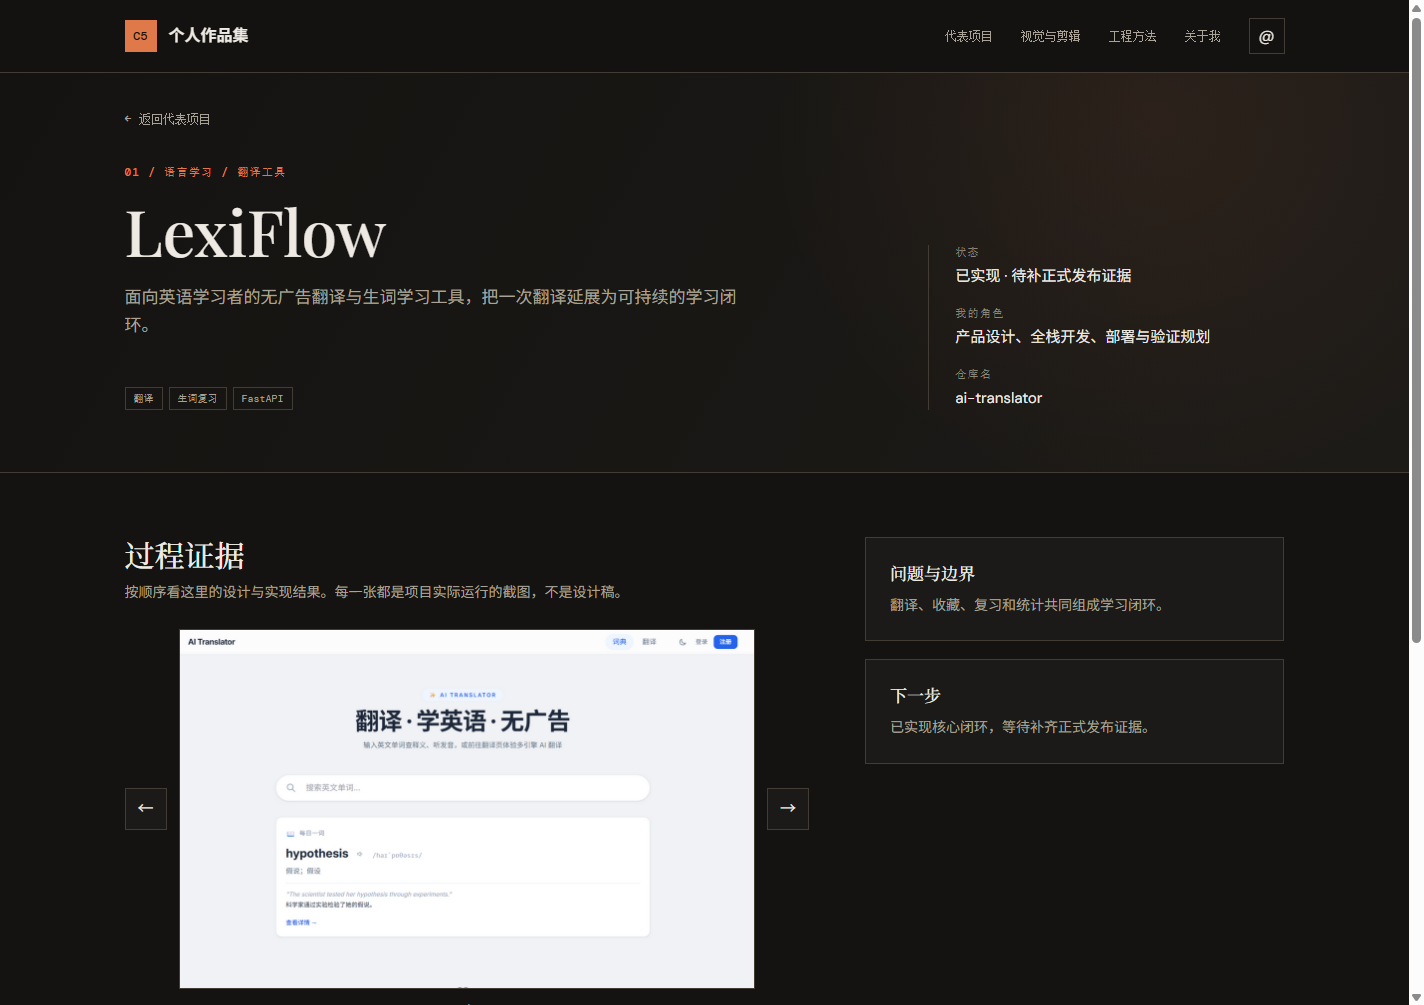
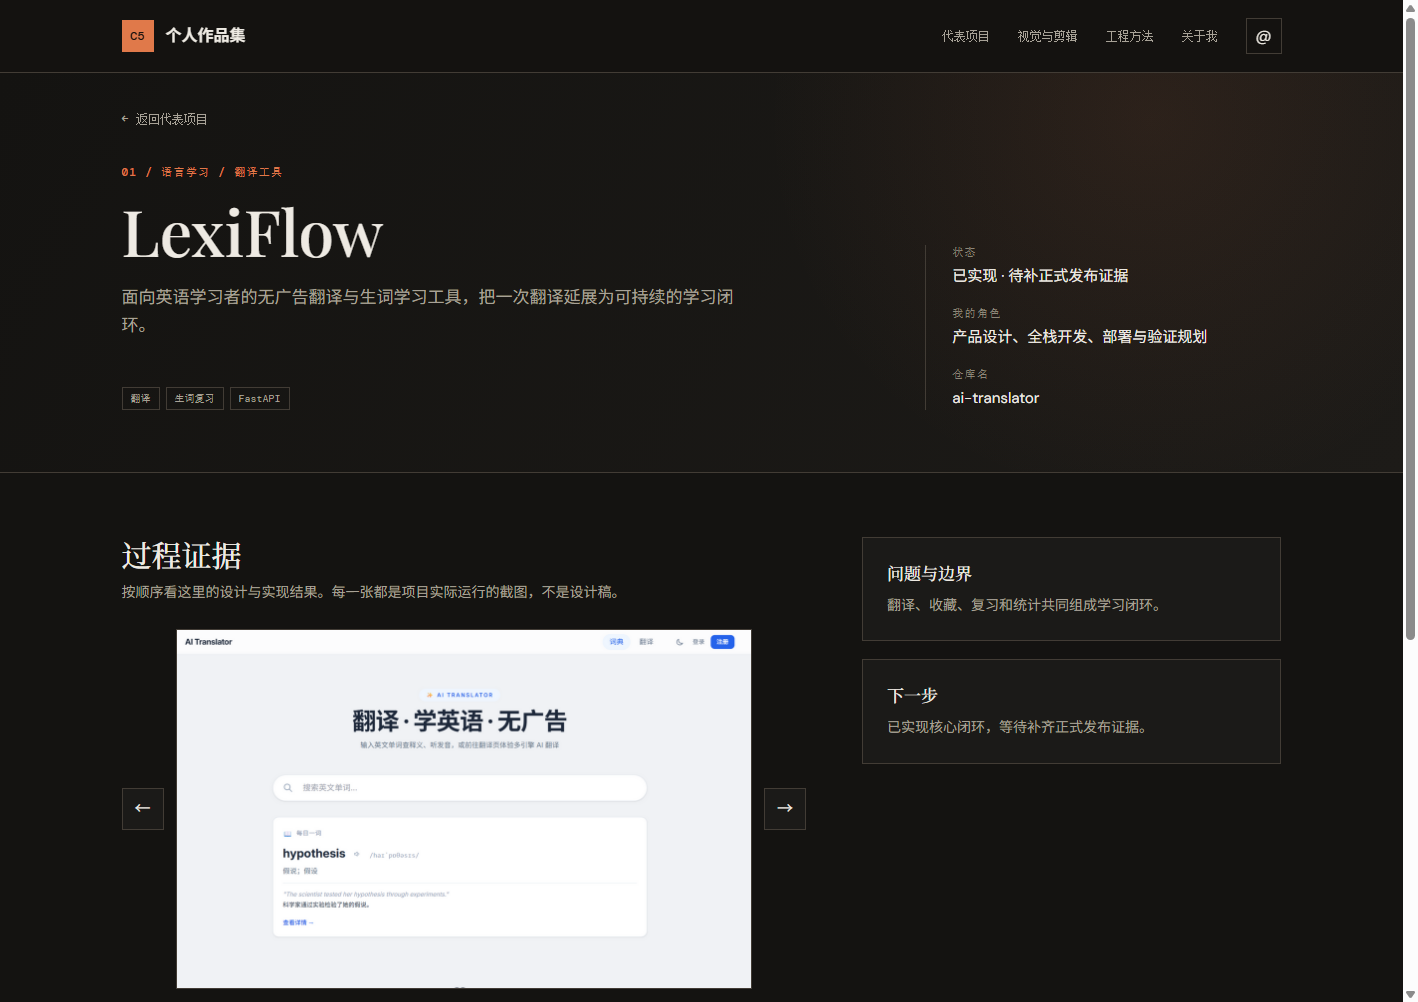
fix: Folio 封面改用裁剪后的登录页截图，并补记详情页重构诊断
- 原封面用对话页截图，观感杂乱；改登录页截图后发现问题：原图四周有约 14%/17% 近黑空白，且原图比例 1.573 与封面区域约 1.59 几乎一致，background-size:cover 等于不裁剪，黑边原样显示
- 新增 folio-cover-login.png：按程序测出的内容边界 x=200..1223、y=153..752 裁剪并留 20px 呼吸边（比例 1.662）；原截图保持未改，对话页截图仍留在画廊中
- STATUS 写入「截图只允许派生不允许修饰」原则，并把详情页结构性诊断（图组 9 个元素、卡片标题与内容不符、字段语义不一致、未用硬数字）记入待办

diff --git a/project/frontend/src/data/projects.js b/project/frontend/src/data/projects.js
@@ -4,7 +4,7 @@ import { ref } from 'vue'
 
 export const fallbackProjects = [
   { id: 1, slug: 'ai-translator', title: 'LexiFlow', repoName: 'ai-translator', summary: '面向英语学习者的无广告翻译与生词学习工具，把一次翻译延展为可持续的学习闭环。', background: '翻译、收藏、复习和统计共同组成学习闭环。', outcome: '已实现核心闭环，等待补齐正式发布证据。', role: '产品设计、全栈开发、部署与验证规划', projectType: '语言学习 / 翻译工具', project_type: 'INDEPENDENT', status: '已实现 · 待补正式发布证据', tags: ['翻译', '生词复习', 'FastAPI'], image: '/assets/v5/translator-home.png', visualKind: 'screenshot', evidence: '3 张已核验截图 · 引擎降级提示的证据待补', gallery: [{ src: '/assets/v5/translator-home.png', step: 'STEP 01 / 入口', caption: '首页「每日一词」。把工具的入口前置成每天可以回访的学习动作，而不是一次性的翻译框。' }, { src: '/assets/v5/lexiflow-translate-result.png', step: 'STEP 02 / 核心链路', caption: '真实翻译结果。输入一句英文，模型返回中文译文，下方列出可继续查词的高频词。截图取自本地实跑，不是设计稿。' }, { src: '/assets/v5/lexiflow-quota-limit.png', step: 'STEP 03 / 边界处理', caption: '匿名游客每日 3 次免费翻译，用完后不静默失败，而是引导登录。配额按匿名标识独立计数，登录用户不受限。' }] },
-  { id: 2, slug: 'ai-second-brain', title: 'Folio', repoName: 'ai-second-brain', summary: '把文档整理、切片检索与问答连成一条链路，回答只依据上传的资料，并标注来源。', background: '把文档上传、切片、检索和流式对话连接起来。', outcome: '已完成独立项目闭环，正在整理公开版本证据。', role: '产品建模、Java 全栈开发、测试与部署', projectType: '知识库 / 检索问答', project_type: 'SOLO', status: '已实现 · 发布前复核', tags: ['文档检索', '引用溯源', 'Spring Boot'], image: '/assets/v5/brain-chat-cited.png', visualKind: 'screenshot', evidence: '3 张已核验截图 · 均为独立演示账号采集，不含真实资料', gallery: [{ src: '/assets/v5/secondbrain-login.png', step: 'STEP 01 / 身份入口', caption: '登录页。左侧说明产品定位，右侧为登录表单。系统区分管理员与普通用户，文档、会话与模型配置按账号隔离。' }, { src: '/assets/v5/brain-documents.png', step: 'STEP 02 / 文档管理', caption: '文档上传与处理状态。上传后经过解析、递归切片和本地 BGE 向量化，页面上显示每个文档的切片数量。截图为演示账号，未包含真实资料。' }, { src: '/assets/v5/brain-chat-cited.png', step: 'STEP 03 / 核心链路', caption: '知识库对话。回答基于检索到的片段生成，并给出引用片段与相似度分数；这份材料只覆盖了问题的一部分，回答就明确说明缺失，而不是编造补全。' }] },
+  { id: 2, slug: 'ai-second-brain', title: 'Folio', repoName: 'ai-second-brain', summary: '把文档整理、切片检索与问答连成一条链路，回答只依据上传的资料，并标注来源。', background: '把文档上传、切片、检索和流式对话连接起来。', outcome: '已完成独立项目闭环，正在整理公开版本证据。', role: '产品建模、Java 全栈开发、测试与部署', projectType: '知识库 / 检索问答', project_type: 'SOLO', status: '已实现 · 发布前复核', tags: ['文档检索', '引用溯源', 'Spring Boot'], image: '/assets/v5/folio-cover-login.png', visualKind: 'screenshot', evidence: '3 张已核验截图 · 均为独立演示账号采集，不含真实资料', gallery: [{ src: '/assets/v5/secondbrain-login.png', step: 'STEP 01 / 身份入口', caption: '登录页。左侧说明产品定位，右侧为登录表单。系统区分管理员与普通用户，文档、会话与模型配置按账号隔离。' }, { src: '/assets/v5/brain-documents.png', step: 'STEP 02 / 文档管理', caption: '文档上传与处理状态。上传后经过解析、递归切片和本地 BGE 向量化，页面上显示每个文档的切片数量。截图为演示账号，未包含真实资料。' }, { src: '/assets/v5/brain-chat-cited.png', step: 'STEP 03 / 核心链路', caption: '知识库对话。回答基于检索到的片段生成，并给出引用片段与相似度分数；这份材料只覆盖了问题的一部分，回答就明确说明缺失，而不是编造补全。' }] },
   { id: 3, slug: 'zhiheng-teaching', title: '高中个性化教学平台 · 知衡', summary: '围绕题库、考试、掌握度、错题和练习构建三角色教学分析闭环。', background: '用清晰的数据流连接管理员、老师和学生的日常工作。', outcome: '补齐学生端与管理员端页面、知识点建表与知识图谱，然后处理部署。当前为单机演示数据，未压测、未部署。', role: '产品定义、信息架构、Java 后端与 Vue 前端开发、测试与验收', projectType: '教育产品 / 全栈应用', project_type: 'INDEPENDENT', status: '教师端考试闭环已交付 · 学生端后端完成、前端待补', tags: ['Spring Boot', 'Vue 3', '三角色'], image: '/assets/v5/zhiheng-dashboard.png', visualKind: 'screenshot', evidence: '真实前后端与数据库 · 8 次版本化迁移 · 51 项后端测试 · 考试分析页存在接口缺陷待修', gallery: [{ src: '/assets/v5/zhiheng-dashboard.png', step: 'STEP 01 / 教师工作台', caption: '教师工作台。班级平均掌握度、待批改考试、需关注学生与可用题目数都由最近一次真实考试的结果聚合得出，数据来自后端接口而非写死的演示值。' }, { src: '/assets/v5/zhiheng-questions.png', step: 'STEP 02 / 题库管理', caption: '题库管理：支持单选、多选、判断、填空、解答五种题型，可维护知识点、难度与分值，也支持按模板 Excel 批量导入。' }, { src: '/assets/v5/zhiheng-grading.png', step: 'STEP 03 / 逐题改卷', caption: '逐题改卷。按学生逐题录入得分，前端限制分数不得超过该题满分，左侧实时显示每位学生的录入进度。这是线下考试闭环里最关键的一步。' }] },
   { id: 4, slug: 'university-news', title: '大学新闻网', summary: 'PC 管理端、移动 Web 与微信小程序共享后端 API 的校园新闻系统。', background: '合作项目，覆盖内容管理、多端展示和文件存储。', outcome: '已按团队口径说明个人贡献边界，公开范围限于读者端页面截图。', role: '合作项目，双方共同参与：后端以搭档为主，前端 UI 以我为主；搭档为项目发起者，整体贡献多于我。具体模块划分未逐项记录。', projectType: '内容平台 / 多端体验', project_type: 'COLLABORATIVE', status: '已授权展示 · 贡献边界已说明', tags: ['合作', '多端', '内容管理'], image: '/assets/v5/nanyang-1.png', visualKind: 'screenshot', evidence: '3 张读者端页面截图（由项目成员提供） · 图注已按截图实况核对 · 后台管理端未提供截图', gallery: [{ src: '/assets/v5/nanyang-1.png', step: 'STEP 01 / 读者端首页', caption: '读者端新闻首页（PC）。顶部是栏目导航与登录入口，中间为校庆主题轮播，下方是内容检索入口。这是面向师生的呈现层：截图里没有管理端的表格、增删改按钮或发布状态列。' }, { src: '/assets/v5/nanyang-2.png', step: 'STEP 02 / 栏目页', caption: '「学校概况 → 学校荣誉」栏目页。左侧是栏目导航，右侧是荣誉条目卡片。地址栏显示该页运行在本地开发端口 5175，属于本机实跑截图而非设计稿。' }, { src: '/assets/v5/nanyang-3.png', step: 'STEP 03 / 分类筛选', caption: '「校园快讯」分类筛选结果页。按分类与学院筛选后以卡片列表呈现新闻摘要，并支持重置筛选。同样是 PC 读者端页面，不是移动端或小程序。' }] },
   { id: 5, slug: 'ai-translator-vue-lab', title: 'LexiFlow 练习区', repoName: 'ai-translator-vue-lab', summary: '沿用 LexiFlow 的技术栈搭的练习场：把课程知识拆成章节，在真实项目里动手改造，而不是只记 API。', background: '练习场与正式产品共用同一套技术栈，减少重复搭建的成本；但两者边界清晰，练习产物不影响正式产品。', outcome: '把课程章节继续补完，并让每章的练习结果回流到 LexiFlow。', role: '课程结构设计、练习环境搭建、章节内容编写', projectType: '练习场 / 技术试验', project_type: 'LAB', status: '持续练习中 · 内容未完整', tags: ['Vue 3', '课程章节', '练习环境'], image: '/assets/v5/lab-playground.png', visualKind: 'screenshot', evidence: '2 张真实运行截图 · 练习内容仍在补充中', gallery: [{ src: '/assets/v5/lab-playground.png', step: 'STEP 01 / 练习区', caption: '练习区首页。把学习拆成有目标的章节：先理解概念、运行示例、动手改造，再回到真实项目里找到它。当前已开课 8 个 Vue 实战章节。' }, { src: '/assets/v5/lab-home.png', step: 'STEP 02 / 可运行的载体', caption: '练习需要一个能跑起来的真实项目，而不是孤立的代码片段。练习区直接复用 LexiFlow 的词典与翻译页面作为实验载体。' }] },

diff --git a/doc/STATUS.md b/doc/STATUS.md
@@ -115,11 +115,19 @@
 
 未覆盖：Tab 焦点顺序、`focus-visible` 样式、屏幕阅读器语义、断网与重复点击。
 
+**封面资产**：Folio 的封面由对话页截图改为**裁剪后的登录页截图**（`folio-cover-login.png`），
+做法是按内容边界（程序测出 x=200..1223、y=153..752）裁掉四周近黑色空白并留 20px 呼吸边——
+原图比例 1.573 与封面区域几乎一致，`background-size:cover` 等于不裁剪，那圈黑边会原样显示。
+原截图 `secondbrain-login.png` **保持原样未改**，对话页截图仍留在该案例的画廊中。
+
+> 原则：**截图是证据，只允许派生（裁剪、缩放），不允许修饰（上色、改字、拼接）。**
+> 为配色好看而给真实截图上色，等同于伪造证据，触发章程的"截图与真实系统不一致"阻断项。
+
 ## 验证设施与最近结果
 
 | 工具 | 用途 | 最近结果 |
 |---|---|---|
-| `utils/browser-check.mjs` | CDP 驱动无头 Chrome 做真实交互，退出码可作门禁 | 42 项全部通过（**内容修正后尚未复跑**） |
+| `utils/browser-check.mjs` | CDP 驱动无头 Chrome 做真实交互，退出码可作门禁 | 42 项全部通过（内容修正后已对 `vite preview` 服务的生产产物复跑，42/42） |
 | `utils/flyway-checksum.py` | 独立复算迁移校验和 | 三个迁移与库中记录一致 |
 | `utils/demo-seed/` | 各项目的演示采集脚本 | Second Brain 含隔离公共文档并复原的完整流程 |
 
@@ -133,13 +141,22 @@
 
 **待办（按价值排序）**
 
-1. 重新构建 `dist` 并重新部署 Netlify，让案例四修正对外生效；随后复跑 42 项浏览器验收。
-2. Gitee 仓库改名：`my-translate` → `ai-translator`、`lexi-flow-practice` → `ai-translator-vue-lab`，
+1. 重新部署 Netlify：`dist` 已重建、42 项验收已在生产产物上复跑通过，仅剩上传这一步（拖拽或 Netlify 面板）。
+2. **详情页重构**（用户反馈"二级页面乱、文字扎堆、功能描述不明确"）。已定位的结构性原因：
+   - 单张截图周围堆了 9 个元素，其中左右箭头、"点击放大"浮层与"← → 切换截图"提示**三处在解释同一操作**，页面在解释自己的 UI 而不是讲项目；
+   - 侧栏卡片标题与内容不符：「问题与边界」渲染的是 `background`（技术链路描述），「下一步」渲染的是 `outcome`（实际是状态）；
+   - 同一字段在不同案例里语义不一致：Folio 的 `outcome` 是"已完成…"，知衡的 `outcome` 是真正的下一步；
+   - 前提信息（问题、边界）被放进侧栏小卡片，而 hero 右栏只放「状态 / 角色 / 仓库名」三行纯文本；
+   - 全站没有用上任何硬数字（如知衡的「8 次迁移 · 51 项后端测试」、本项目的 42 项验收）。
+   改法：图组 9→4 个元素；正文改「问题 → 做法 → 结果」三段式；修正卡片标题或内容；首屏补入事实数字；图注压到 1–2 句且只讲该图证明了什么。
+3. Gitee 仓库改名：`my-translate` → `ai-translator`、`lexi-flow-practice` → `ai-translator-vue-lab`，
    改名后更新本地 remote。
-3. 轮换 LexiFlow 已公开的 Postgres 密码，并把 `docker-compose.yml` 改为环境变量注入。
-4. 确认 LexiFlow 练习区仓库的定位后再决定是否推送（当前它包含整个 LexiFlow 代码库）。
-5. 知衡考试分析页返回 500（工作台、题库、改卷三页正常），需定位服务端异常。
-6. 补数据库接口读写、事务失败回滚、测试数据库隔离验证（仅在解冻后端时才有意义）。
+4. 轮换 LexiFlow 已公开的 Postgres 密码，并把 `docker-compose.yml` 改为环境变量注入。
+5. Folio 文档页明暗混杂（深色外壳 + 纯白上传区与文档卡片）：应**改 Folio 前端主题后重新截图**，
+   不得给现有截图上色。
+6. 确认 LexiFlow 练习区仓库的定位后再决定是否推送（当前它包含整个 LexiFlow 代码库）。
+7. 知衡考试分析页返回 500（工作台、题库、改卷三页正常），需定位服务端异常。
+8. 补数据库接口读写、事务失败回滚、测试数据库隔离验证（仅在解冻后端时才有意义）。
 
 ## 环境与端口
 

diff --git a/self-reflection-lite.md b/self-reflection-lite.md
@@ -10,7 +10,7 @@
   经确认前端**没有任何界面调用管理端**，其完成度不影响访客看到的内容，故后端按「未接入、冻结」处理。
 - 案例四的图注原先与截图不符（把读者端前台写成后台管理端、把 PC 页面写成移动端与小程序），
   已于 2026-09-13 按截图实况逐条改正，并补入经项目成员确认的个人贡献边界。
-- 浏览器交互验收已可执行：`node utils/browser-check.mjs http://127.0.0.1:1001/`，此前 42 项全部通过；本轮修正文案后尚未复跑。
+- 浏览器交互验收已可执行：`node utils/browser-check.mjs <url>`。本轮修正案例四文案后，已对 `vite preview` 服务的生产产物复跑，42/42 通过。
 - 对外展示名与仓库名分离：LexiFlow → `ai-translator`，Folio → `ai-second-brain`（ADR-013、ADR-014）。
 - 已具备 Netlify 部署条件：`netlify.toml` 与 `public/_redirects` 提供 SPA 回退，
   对生产产物（`vite preview` 服务的 dist）验收 42 项全过，深链返回 200 而非 404。
